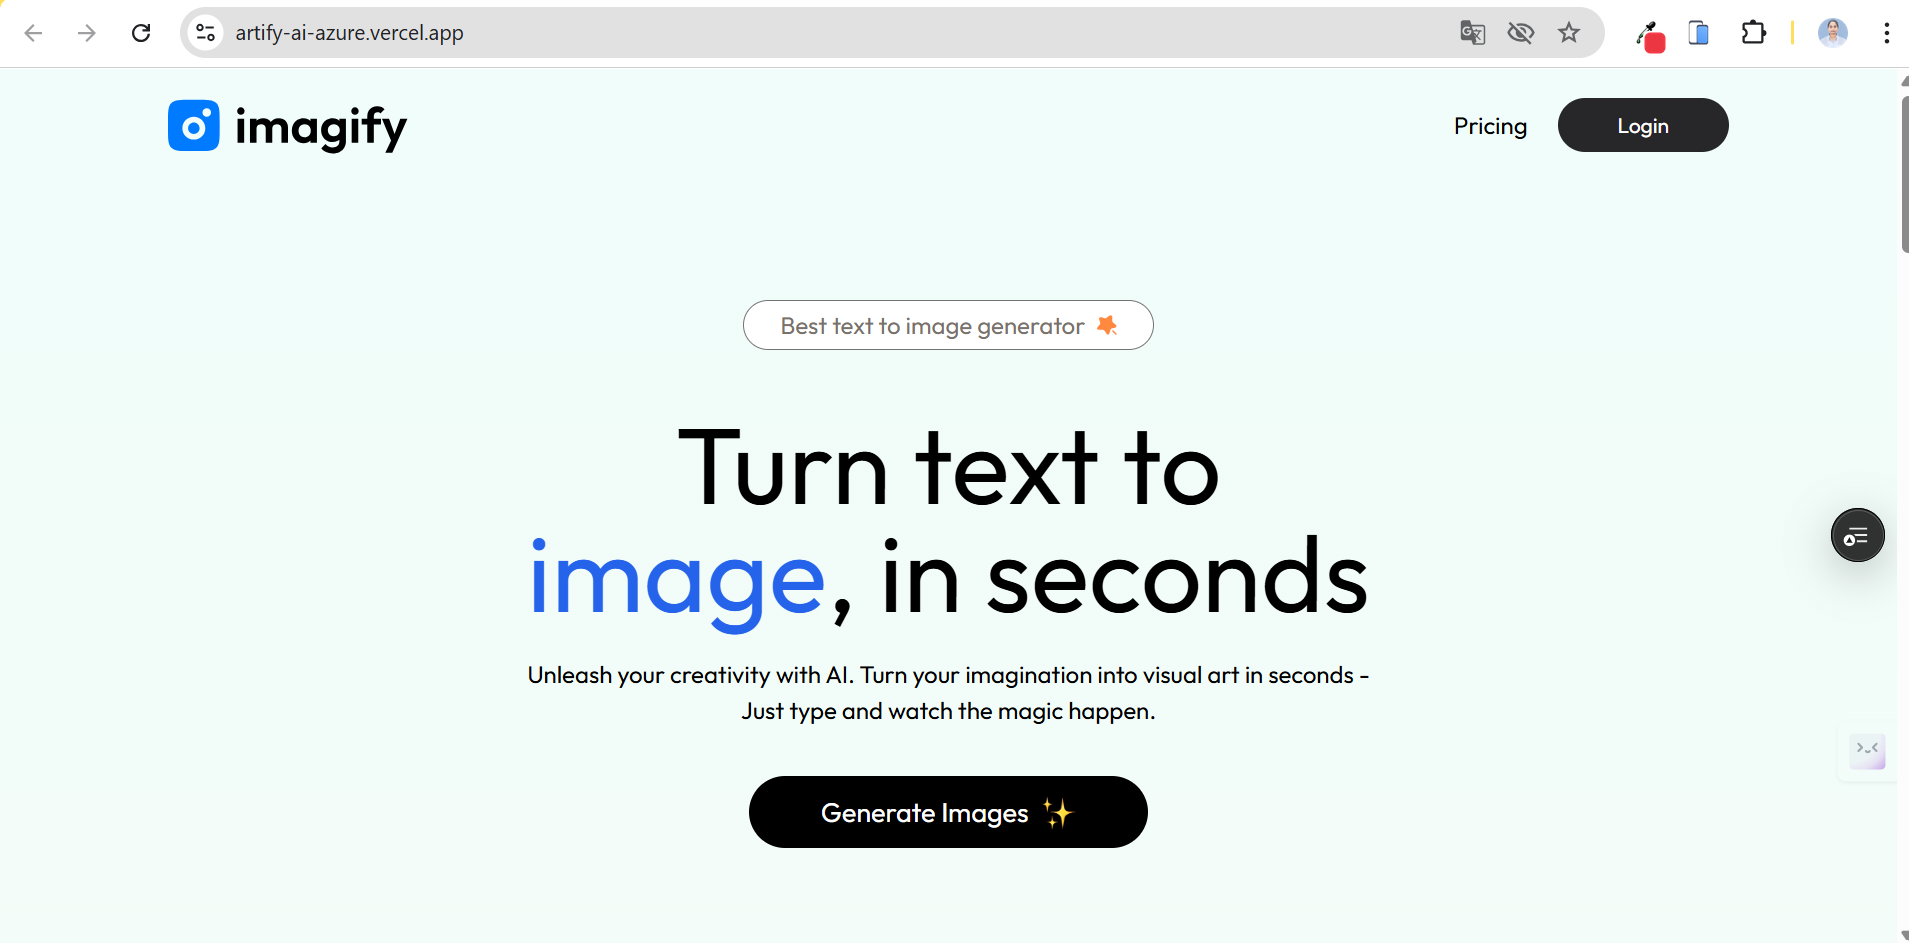
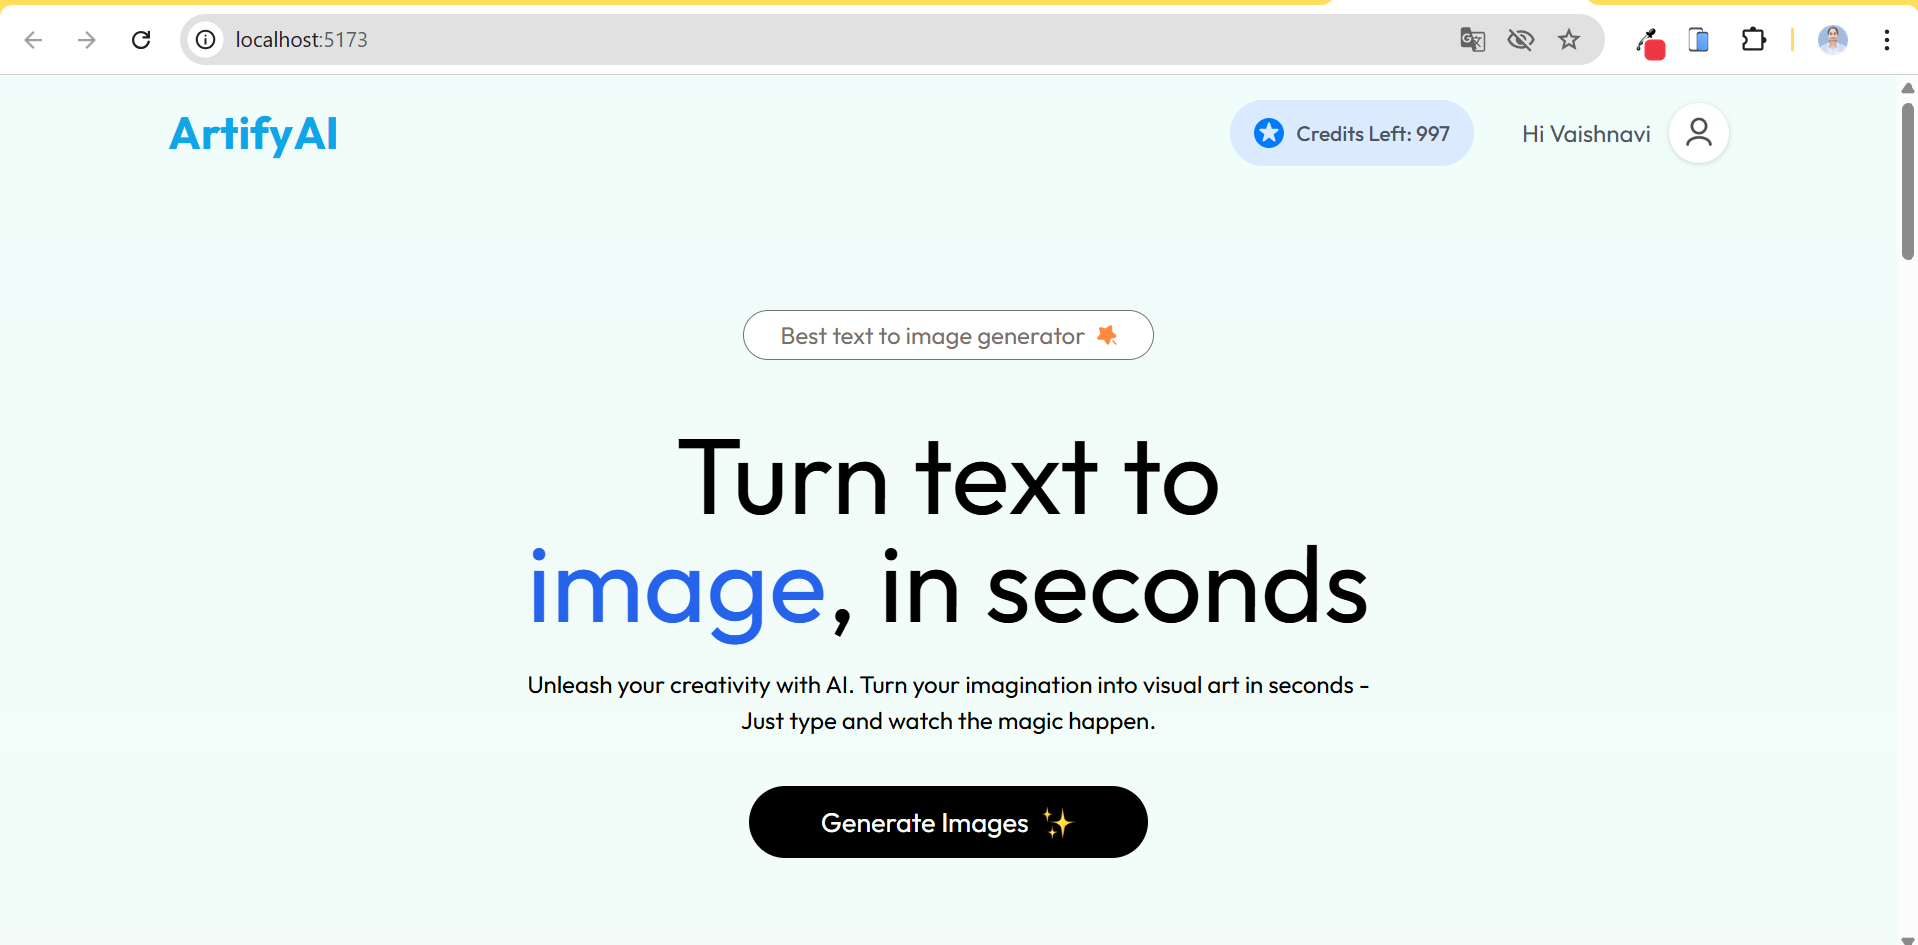
Upload all images in readme.md file.

diff --git a/client/src/components/Navbar.jsx b/client/src/components/Navbar.jsx
@@ -8,9 +8,8 @@ const Navbar = () => {
     const {user,setShowLogin,logout, credit} = useContext(AppContext)
   return (
     <div className="flex items-center justify-between py-4">
-      <Link to={"/"}>
-        {" "}
-        <img src={assets.logo} alt="" className="w-28 sm:w-32 lg:w-40" />{" "}
+      <Link to={"/"} className={"font-bold text-sky-500 text-3xl"}>
+        ArtifyAI
       </Link>
       <div>
         {/*for logout or login */}

diff --git a/README.md b/README.md
@@ -18,3 +18,13 @@ ArtifyAI is a website where users can enter a text prompt, and based on that inp
 <p align="left">
   <img src="./client/assets/Home.png" width="500" alt="App Screenshot" />
 </p>
+
+**2. Enter Prompt to generate image**
+<p align="left">
+  <img src="./client/assets/Prompt.png.png" width="500" alt="App Screenshot" />
+</p>
+
+**output**
+<p align="left">
+  <img src="./client/assets/output.png.png" width="500" alt="App Screenshot" />
+</p>
